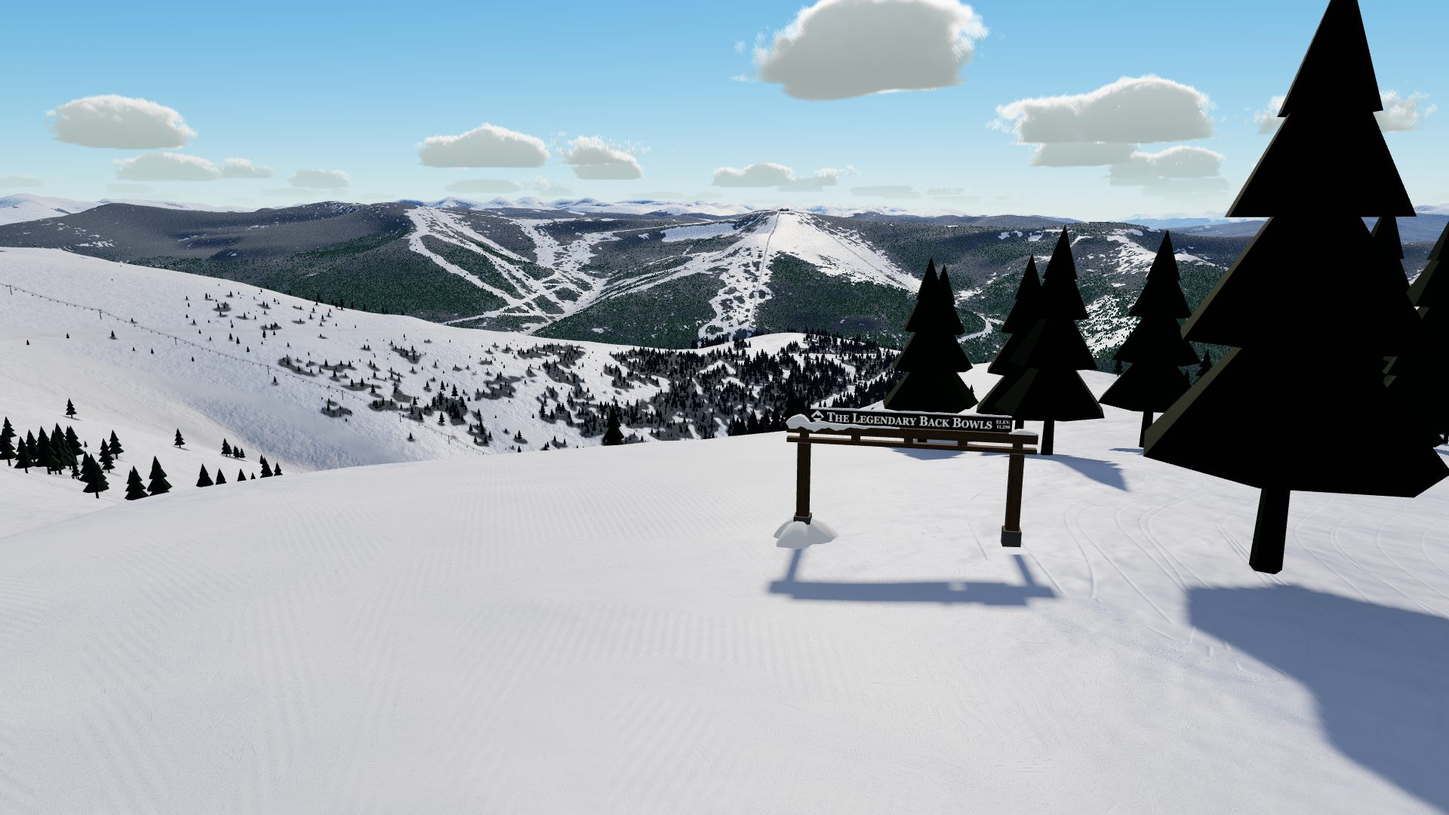
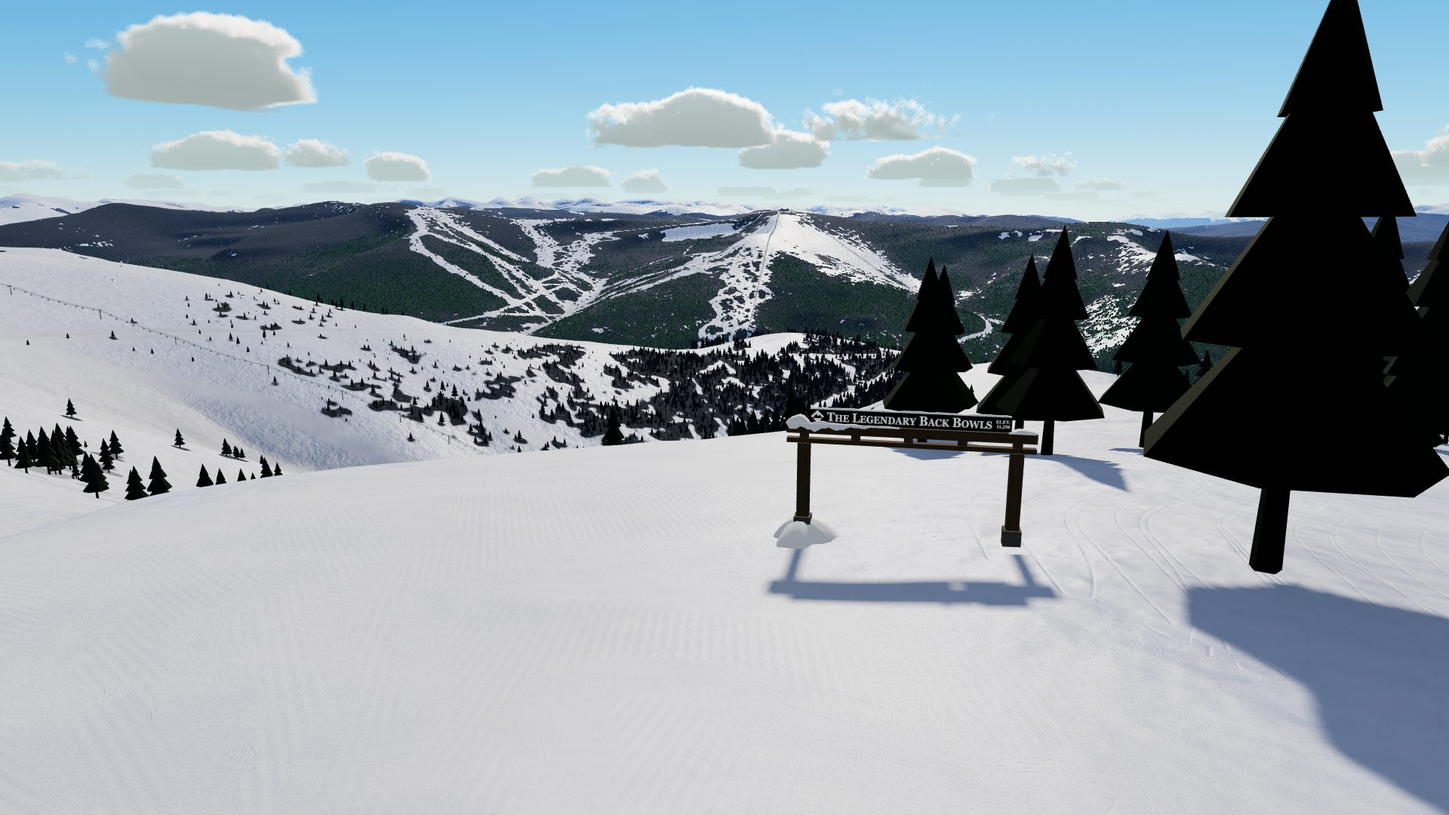
FEAT-154: far forest from high up: gap fraction with the drawn trees taken out, dark sunlit canopy, no near fade outside the pack
Research in docs/research/far-terrain.md section 7: the forest darkening made the grey blobs (A/B per
term with tools/aerial.mjs); the cover share matches Sentinel-2 on sunlit slopes, so the fix is in the
shader. Menu still re-rendered.

diff --git a/game/src/terrain/TerrainMaterial.ts b/game/src/terrain/TerrainMaterial.ts
@@ -48,6 +48,11 @@ import { DEFORM_GLSL, deformUniforms } from '../world/Deform';
  * cuts), not from the per-vertex value; conifer timber is a dark mass with a crown-scale texture that fades
  * to an even tone once a pixel is wider than a crown. Beyond the instanced trees (`uLiftNear`) the coarse
  * chunks raise forested ground by the `lift` attribute (canopy height x cover) so ridges read as treed.
+ *
+ * Forest from high up (FEAT-154, `docs/research/far-terrain.md`): how dark forested ground goes is a gap
+ * fraction of the cover share and the view angle, less what the drawn trees already cover inside their
+ * reach, and sunlit canopy takes only `uCanopySun` of the direct light, so from the air the bowls stay
+ * white between their tree islands and timber reads dark instead of grey.
  */
 
 /** three.js's physical direct-light function with the snow wrap/subsurface and glint terms added. */
@@ -121,6 +126,17 @@ export function createTerrainMaterial(): THREE.MeshStandardMaterial {
     uDebugMoguls: { value: 0.0 },
     /** baked AO strength (1 = as baked; debug A/B with 0) */
     uAO: { value: 1.0 },
+    /** FEAT-154 look switches for A/B stills (`tools/aerial.mjs`): x = 1 drops the forest darkening, y the rock
+     *  and talus, z the snow drift normals; w = 1 paints the forest darkening red */
+    uDebugFar: { value: new THREE.Vector4(0, 0, 0, 0) },
+    /** FEAT-154: the share of the canopy the drawn trees cover inside their reach (the ground adds the rest),
+     *  the share of the sun a sunlit canopy returns (shaded needles and crown sides), and how much of a
+     *  forested pixel is timber rather than snow between the crowns. Tuned from 500 to 900 m up on Vail. */
+    uForestDrawn: { value: 0.7 },
+    uCanopySun: { value: 0.3 },
+    uTimberMix: { value: 0.97 },
+    /** FEAT-154: the rectangle (pack minX, minY, maxX, maxY) holding tree instances; none by default */
+    uTreeRect: { value: EMPTY_RECT.clone() },
     ...rockUniforms(),
     ...deformUniforms,
     ...coverUniforms(),
@@ -179,6 +195,9 @@ export function createTerrainMaterial(): THREE.MeshStandardMaterial {
         uniform float uTime;
         uniform vec3 uSnow, uSnowShade, uGroomed, uShadeTint, uSSS;
         uniform float uWrap, uGlint, uFlat, uAO;
+        uniform vec4 uDebugFar;
+        uniform float uForestDrawn, uCanopySun, uLiftNear, uTimberMix;
+        uniform vec4 uTreeRect;
         #define AO_POW 2.6
         #define AO_DIRECT 0.6
         // FEAT-075: forest darkening from FOREST_NEAR (full by FOREST_FULL, m); canopy cover FOREST_LO..FOREST_HI maps to 0..1
@@ -329,6 +348,7 @@ export function createTerrainMaterial(): THREE.MeshStandardMaterial {
         float bn2 = vnoise(wp * 0.17 + 11.0) * 0.6 + mix(0.5, vnoise(wp * 0.8 + 5.0), fineOct) * 0.4;
         // winter buries most talus: only part of a full-weight field shows
         float screeCov = smoothstep(0.5 - edge, 0.5 + edge, wScreeV * 0.65 + (bn2 - 0.5) * 0.7 - snowShift) * (1.0 - rockCov);
+        rockCov *= 1.0 - uDebugFar.y; screeCov *= 1.0 - uDebugFar.y;
         float wSnow = 1.0 - rockCov - screeCov;
         vec3 base = snow * wSnow + rockAlb * rockCov + screeAlb * screeCov;
         base = mix(base, groomed, wGroom * wSnow);
@@ -386,7 +406,23 @@ export function createTerrainMaterial(): THREE.MeshStandardMaterial {
         float covK = cov.y * smoothstep(COVER_NEAR, COVER_FULL, dist);
         float forestV = mix(vForest, cov.x, covK);
         float forestK = mix(smoothstep(FOREST_LO, FOREST_HI, vForest), smoothstep(0.1, 0.9, cov.x), covK);
-        float fd = max(smoothstep(FOREST_NEAR, FOREST_FULL, dist) * forestK, smoothstep(2500.0, 6000.0, dist) * forestV);
+        // FEAT-154: how much of this ground a viewer sees as canopy (a gap fraction). With a share s of the
+        // ground under crowns, a sight line at cosine mu to the ground misses the crowns with probability
+        // (1 - s)^(1/mu): grazing views (from the snow) see a closed mass, views from above see the openings.
+        // Inside the trees' reach the drawn trees already cover rho = uForestDrawn of the canopy, so the
+        // ground adds only what they miss, 1 - ((1 - s) / (1 - rho s))^(1/mu); before this the ground went
+        // grey under trees that were already drawn, so sparse stands in the bowls read as grey blobs from
+        // the air. Outside the pack's tree instances (uTreeRect) nothing is drawn, so there the ground carries
+        // the forest from the first metre instead of fading in from FOREST_NEAR.
+        vec2 pxyF = vec2(wp.x, -wp.z);
+        vec2 trd = min(pxyF - uTreeRect.xy, uTreeRect.zw - pxyF);
+        float treeHere = smoothstep(0.0, 300.0, min(trd.x, trd.y));
+        float viewMu = clamp(dot(ngW, normalize(cameraPosition - wp)), 0.12, 1.0);
+        float rho = uForestDrawn * treeHere * (1.0 - smoothstep(uLiftNear - 800.0, uLiftNear, dist));
+        float sK = min(forestK, 0.999);
+        float seen = 1.0 - pow((1.0 - sK) / (1.0 - rho * sK), 1.0 / viewMu);
+        float fd = mix(1.0, smoothstep(FOREST_NEAR, FOREST_FULL, dist), treeHere) * seen;
+        fd *= 1.0 - uDebugFar.x;
         // FEAT-075: conifer canopy in sun is dark (shaded needles and crowns), dark green-black in the photos.
         // FEAT-153: crowns (about 6 m) texture it while a pixel is smaller than a crown and fade to an even
         // tone beyond, with a faint stand-scale variation; no 50 m snow blotches at a distance
@@ -396,10 +432,11 @@ export function createTerrainMaterial(): THREE.MeshStandardMaterial {
         float stand = vnoise(wp * 0.007 + 5.1);
         vec3 timber = mix(vec3(0.03, 0.045, 0.035), vec3(0.08, 0.1, 0.075), mix(0.4, crown, crownK) * 0.75 + stand * 0.25);
         timber = mix(timber, snow * 0.8, smoothstep(0.62, 0.9, crown) * crownK * 0.6); // snowy gaps between crowns
-        base = mix(base, timber, fd * 0.9);
+        base = mix(base, timber, fd * uTimberMix);
         gSnowW = wSnow * (1.0 - fd);
         gGlintW *= wSnow * (1.0 - wGroom * 0.6) * (1.0 - fd) * (1.0 - 0.6 * uSpring); // wet spring snow sparkles less
         diffuseColor.rgb = base;
+        if (uDebugFar.w > 0.5) diffuseColor.rgb = mix(vec3(0.9), vec3(0.9, 0.1, 0.1), fd);
         // BUG-062 ?debug=moguls: amplitude as a tint, green where the bumps are in the geometry, red where
         // the shader alone draws them, faint magenta on chunks too coarse for either
         if (uDebugMoguls > 0.5) {
@@ -432,7 +469,7 @@ export function createTerrainMaterial(): THREE.MeshStandardMaterial {
           vec3 t = normalize(cross(wn, vec3(0.0, 0.0, 1.0)));
           vec3 b = cross(wn, t);
           vec3 pn = normalize(t * bump.x + wn * bump.y + b * bump.z);
-          vec3 nn = normalize(mix(wn, pn, 0.8 * wS));
+          vec3 nn = normalize(mix(wn, pn, 0.8 * wS * (1.0 - uDebugFar.z)));
           // corduroy ridges tilt the normal across the fall line (about 1 cm high, 30 cm apart)
           float pT, sm;
           vec4 cdn = corduroy(wpn, vFall, pT, sm);
@@ -482,6 +519,9 @@ export function createTerrainMaterial(): THREE.MeshStandardMaterial {
           reflectedLight.indirectSpecular *= aoT;
           // gullies and couloirs read in depth in sun too, and it stands in for self-shadowing past the shadow maps
           reflectedLight.directDiffuse *= mix(1.0, aoT, AO_DIRECT);
+          // FEAT-154: sunlit canopy is mostly shaded needles and the shadow sides of crowns, so the forest
+          // takes a fraction of the sun the bare slope would (without it sunlit timber read mid grey)
+          reflectedLight.directDiffuse *= mix(1.0, uCanopySun, fd);
         }`)
       .replace('#include <roughnessmap_fragment>', `
         // flat light: no sheen toward a sun hidden behind cloud, so the snow goes fully rough

diff --git a/game/src/terrain/Terrain.ts b/game/src/terrain/Terrain.ts
@@ -101,6 +101,9 @@ export class Terrain {
     if (pack.dir) pack.dir.onTileLoaded = (tx, ty) => this.onTileLoaded(pack.dir!.meta.minX + tx * pack.dir!.size, pack.dir!.meta.minY + ty * pack.dir!.size, pack.dir!.size, 0);
     if (pack.moguls) pack.moguls.onTileLoaded = (tx, ty) => this.onTileLoaded(pack.moguls!.meta.minX + tx * pack.moguls!.size, pack.moguls!.meta.minY + ty * pack.moguls!.size, pack.moguls!.size, 0);
     if (pack.cover) pack.cover.onLevelLoaded = () => this.applyCover();
+    // FEAT-154: where the pack has tree instances (outside it the forest is the terrain's colour alone)
+    const ins = pack.meta.instances;
+    if (ins) (this.material.userData.uniforms as { uTreeRect: { value: THREE.Vector4 } }).uTreeRect.value.set(ins.minX, ins.minY, ins.minX + ins.cellsX * ins.cellSize, ins.minY + ins.cellsY * ins.cellSize);
   }
 
   /**

diff --git a/docs/developer-guide.md b/docs/developer-guide.md
@@ -7,7 +7,7 @@ pipeline script, URL parameters and the milestone history. Process docs: [HANDOF
 
 ## Features in detail
 
-- Terrain: quadtree LOD over the 262 km far ring, 1 m near the rider, snow / rock / scree / groomed material; forested ground darkens from the tree impostor ring outward so the far forest reads dark. Distant forest (FEAT-153, `pack/CoverSet.ts`): past about 300 m the shader takes the forest share per pixel from the pack's cover levels (`cover/*.png`, a mipmapped texture per level, up to 3), so the real forest edges and the ski trails cut through it show at any distance; chunks coarser than 8 m take forest, rock and canopy height from the same levels per vertex instead of the procedural treeline (`proceduralForest`, now only where no level reaches or before they load). From the impostors' reach (`uLiftNear`, Vegetation's FAR_RADIUS: 4.5 km at full tree density, nearer on lower density settings) to 2 km past it, chunks coarser than 8 m rise by canopy height x cover x 0.7 (the `lift` attribute, applied in the vertex shader) so forested ridges read as treed; the far timber has a crown-scale texture that fades to an even tone once a pixel is wider than a crown.
+- Terrain: quadtree LOD over the 262 km far ring, 1 m near the rider, snow / rock / scree / groomed material; forested ground darkens from the tree impostor ring outward so the far forest reads dark. Distant forest (FEAT-153, `pack/CoverSet.ts`): past about 300 m the shader takes the forest share per pixel from the pack's cover levels (`cover/*.png`, a mipmapped texture per level, up to 3), so the real forest edges and the ski trails cut through it show at any distance; chunks coarser than 8 m take forest, rock and canopy height from the same levels per vertex instead of the procedural treeline (`proceduralForest`, now only where no level reaches or before they load). From the impostors' reach (`uLiftNear`, Vegetation's FAR_RADIUS: 4.5 km at full tree density, nearer on lower density settings) to 2 km past it, chunks coarser than 8 m rise by canopy height x cover x 0.7 (the `lift` attribute, applied in the vertex shader) so forested ridges read as treed; the far timber has a crown-scale texture that fades to an even tone once a pixel is wider than a crown. Forest from high up (FEAT-154, `docs/research/far-terrain.md` section 7): how dark forested ground goes is a gap fraction, `1 - ((1 - s) / (1 - rho s))^(1 / mu)` of the cover share `s` and the cosine `mu` between the ground normal and the view, so grazing views from the snow see a closed mass and views from the air see the openings; inside the trees' reach `rho` (`uForestDrawn`, 0.7) is the part of the canopy the drawn trees already cover, and outside the pack's tree instances (`uTreeRect`, set by `Terrain` from `meta.instances`) the ground carries the forest from the first metre. Sunlit canopy takes `uCanopySun` (0.3) of the direct light and a forested pixel is `uTimberMix` (0.97) timber. `uDebugFar` switches terms off for A/B stills (x forest, y rock and talus, z snow drift normals; w paints the forest darkening red), for example `SHOT_EVAL` or a `tools/aerial.mjs` variant setting `__sim.terrain.material.userData.uniforms.uDebugFar.value.set(1, 0, 0, 0)`.
 - Riding: carving on a real edge angle (up to 72 deg on firm snow, 45 in powder) with the turn radius from the board's sidecut, washing into a skid past the grip; edge to edge takes about 0.3 s at speed; the rider leans into the hill up to 60 deg with deep toeside and heelside carve poses. Hard carve (FEAT-148, the squat key held while steering): `Rider.hardCarve` eases in, the edge cap goes to `HARD_PSI` (80 deg) and the edge rolls `HARD_ROLL` times faster (slowing with the square of the speed past `HARD_ROLL_V`), the lean may reach `HARD_PHI` and the snow holds up to `HARD_G` (2.6 g) times its grip; the press asks for the turn of the target edge, driven in over `HARD_DRIVE_T` once the edge is on the steer's side, while the edge holds only what its real angle balances, so a lagging edge (pressed from flat at speed, on ice) skids (`carveShort`, folded into `skid` for the drag, spray and sound) and short of more than `WASH_SHARE` (35%) of the turn asked, at speed, fills `washout` (a share, so softer snow that asks less washes out alike; the snow's grip scales what the edge holds; only deep powder, its share times depth over `HARD_DEEP` 30 cm, lowers the hard carve's edge cap and stops the washout); full, the rider crashes to the inside of the turn (`crashSide`, the ragdoll topples that way) and `onWashout` toasts it. `HARD_DRAG` adds a drag from the lateral acceleration. The view lays the body over to `LEAN_HARD` (73 deg) in the deep carve stance (BUG-066: the squat pose fades out while `hardCarve` is in, and `RiderView.deckDeficit` lifts the hips until the shins, knees and thighs clear the deck in the board's own frame, `DECK_CLEAR`) and drags the inside hand on the snow; the spray, the track depth and the carve hiss rise with it; `?debug` shows hard, short and wash. Also tuck, brake (the board swings across into a hockey stop, scrapes a wide track and holds on its edge once stopped; steering while braking digs the edge in for a harder stop or lets it off into a skidded turn or a side-slip), the fall line (a flat board follows its slide down the hill and side-slips when let go across it unless the uphill edge is held; on Realistic the edge catches when the board slides sideways onto its leading edge, or slides flat over rough snow; Settings > Gameplay > Fall line: Realistic (the default), Assisted, Off; the Feel presets set it, Arcade to Off), charged jumps with ollie and nollie off the board's spring (hold W / S with Space), nose and tail presses (Q / Z) balanced on a meter (FEAT-140: `Rider.pressStep`, the needle `pressBalance` drifts with the hold time, speed and bumps, runs away off centre, and W / S or the stick shift the weight back (over 0.15 s, and always strong enough to win, so there is no time limit); off the loaded end a slam that topples the ragdoll over that end (`Rider.crashFall`) or a stall, off the other end the board drops flat; a press key held through a trick lands into the press (`pressFrom`); `onPress` reports the time and distance, `ui/PressMeter.ts` draws the meter over the head, tunables `PB_*` and `PRESS_RANGE` (how far the balance runs before it is lost; the body leans in proportion) at the top of `Rider.ts`, Settings > Gameplay > Press balance Easy / Normal / Hard / Off, also set by the Feel presets), squat (Left Ctrl), skating on the flat (X), grabs, air spins, front flips and backflips (Up / Down in the air, trick names toast on landing: flips, and spins as "Frontside 180" / "Backside 360"), landings; collisions with trees, rocks and building walls. The snowboard bends when loaded. Snowboard or skis, outfit colours, articulated rider with blended poses. The body leads and the board follows (BUG-056, visual only): the head and shoulders pose about 0.2 s ahead of the physics (the steer's target edge and the heading the turn rate is reaching), the hips and the body's inclination about 0.12 s ahead, each lead signal followed through a critically damped 0.09 s body response (`BODY_RESPONSE`) so the body moves at a human speed instead of snapping to its prediction, and the board as drawn trails the physics yaw and edge by about 0.08 s (critically damped, never rolled past the physics edge, snapped on landings and crashes), so an edge change reads look, shoulders, hips, knees, board. Tunables `LEAD_UPPER`, `LEAD_HIPS`, `BOARD_LAG` at the top of `RiderView.ts`, live on `riderView.leadUpper` / `leadHips` / `boardLag` and as sliders under `?debug`.
 - Riding switch and stance (FEAT-139): `rider.heading` is always the steering axis along the direction of travel, and every physics value (edge, lateral g, lean, flip, brake side) is in its frame, so + edge is the heading's right-hand edge. Going backwards along it faster than `FAKIE_SPEED` (2.5 m/s), or landing with the board backwards, `turnRound()` adds PI to the heading and board yaw, negates the edge, lean and lateral g, and toggles `rider.switch`. `rider.goofy` comes from Settings > Gameplay > Stance. `rider.toeSign` is -1 when switch and goofy differ: `RiderView` then draws the board and body at the yaw + PI and negates every sideways and fore-aft value into the rig's frame (`fl`), so turning round never moves the rider on screen and the toe and heel poses stay the rider's own. A goofy rig (`buildRig(..., goofy)`) has the deck's nose at +Z and the +15 / -6 bindings swapped ends, so drawn turned round it is a true goofy stance. Seated and on foot are always drawn along the heading; unstrapping and strapping in turn the heading round when needed so nothing pops. Switch is 4 % less grip (`SWITCH_GRIP`), shows SWITCH on the HUD, and prefixes trick names ("Switch backside 180"). Replays and ghosts carry flag bits 8 (switch) and 16 (goofy). Skis never ride switch.
 - Snow conditions (FEAT-053, `sim/SnowConditions.ts`): `snowAt()` turns the surface mask, the ground normal (slope and aspect), the elevation, the canopy and the day (`rider.snowWorld`: hour, storm, new snow cover, the Snow conditions setting, the pack's elevation range, set by `main.ts` each frame) into weights for groomed / powder / chop / ice / slush / rock that sum to 1, plus the physics they blend (`grip`, `drag0`, `drag1`, `turn`, `jolt`, `skidScrub`, `depth`). Powder keeps in the shade of north aspects, high up, under the trees and after a storm (a storm or a powder day makes the groomers ride soft too); open off-piste is tracked out into chop as the day goes on; wind scours high exposed ground to ice and spring mornings refreeze the groomers; the afternoon sun makes slush low down on the sunny faces (most of all in spring). In `Rider.ts` the state scales the grip (ice about half), the sidecut's arc and the lean's turn force (powder 0.7: wider, slower turns), the snow drag (powder speed-scaled until the board planes at `PLANE_SPEED`, the nose sinking and digging in below `SINK_SPEED`, slush heavy), how much a skid scrubs speed (ice little), and chop adds seeded random jolts to the heading and a sideways kick (`CHOP_*`, `rider.chop` for the camera). `bootSink` reads the depth on foot. The spray (`RiderView.updateSpray`: a plume off the edge in powder, almost none on ice), the camera rumble, the track depth and the sound (`Audio.update`: ice on the hardpack layer, slush a wet hush, chop a crackle; footsteps too) follow the weights. The HUD names the dominant kind while riding and shows the kind and the boot sink on foot; `?debug` adds the weights.
@@ -58,6 +58,7 @@ pipeline script, URL parameters and the milestone history. Process docs: [HANDOF
 - `outruncheck.mjs [pack] [outDir] [--gpu | --headed]` Outrun flow: chase, look back, the eat sequence.
 - `menucheck.mjs [pack] [--gpu | --headed] [--shots]` menu navigation (FEAT-128): walks the main menu, the settings screen and pause with the keyboard and a fake gamepad (`window.__pad`); checks focus (first row on open, back on the opener on close), the detail panel, category switching (Q / E, R1), left / right and Enter on toggles, sliders and pickers saving to localStorage, the Graphics and Feel presets and Custom, reset arming then resetting, search across categories (letters stay in the box, never reach the game), UI scale and Reduce motion, hints from the key tables and the controller's glyphs, Esc cancelling a key or controller-button rebind (menu and pause), the controller skipping keyboard key slots, action rows staying in the screen, the main menu (it shows before the session is ready, the title, the live session behind it with riding keys and Esc doing nothing, B for Snowboard / Skis, the course list and Esc back onto its card, the Outrun card, Change resort, a course from the card row and RIDE putting the gates on, Quit back to the live menu with the course ended, a ghost take riding behind it, RIDE again in the same session), the pause menu (the place and stats, quick toggles applied at once, Mode's screen and E across modes, a course from Mode turning the gates on for the session and Free ride off again, Quit armed by one press and done by two), settings over the game (a live fps readout, a change applied to the running game, hold V or Y to peek), Esc resuming once, A on Resume not jumping, a stick held into pause not moving the focus, and closing pause closing settings and cancelling a listening slot. `--shots` saves the main menu, settings over the menu and the game, settings at 390 x 844 and 844 x 390, the main menu and pause (also at 390 x 844, the main menu at 844 x 390 too) to `game/shots/menus/`. About 40 s on the GPU.
 - `views.mjs <pack> <outDir> <views.json> [--headed | --gpu]` stills from fixed free-camera spots for look checks (`views-*.json` in the same folder).
+- `aerial.mjs <pack> <outDir> <poses.json> [variants.json] [--gpu | --headed]` (FEAT-154) stills from the eye camera (the menu's backdrop camera) at poses like the `AttractShots` ones (`x`, `y`, heading `h`, `pitch`, `fov`, `eye` metres above the snow, up to hundreds of metres for aerials), once per variant (`{ label, eval, undo }`, JavaScript run in the page before and after the variant's stills, for A/B of shader terms); steps until the tiles settle and prints the GPU frame time (30 frames each finished with a `readPixels`), draw calls and triangles per still. `SHOT_DIST=<dir>` (any tool that uses `tools/paths.mjs`) serves another build, for example `main` built with `npx vite build --outDir <dir>`, for a before / after with the same tool.
 - `shoot_features.mjs` map, buildings, rocks and lift feature check.
 - `probe.mjs` step timing probe for hangs.
 - `brakecheck.mjs` brake physics on exact planes, no browser: hockey-stop time and distance against the snow-cutting targets, board swing, release, standing across the hill, ski snowplough, and the steer-modulated brake (FEAT-133: a harder stop into the edge, a skidded turn and a side-slip away from it, release onto the new line). Exits 1 on a failed check.

diff --git a/docs/research/far-terrain.md b/docs/research/far-terrain.md
@@ -92,7 +92,83 @@ Expected result: from the Back Bowls gateway, Blue Sky Basin shows its forest an
 - `perf-check`: frame time and draw calls before and after each phase while tucking down a long run (the stream-heavy case).
 - Watch for shimmering trail edges at distance (aliasing): the box-filtered levels and the slight edge sharpening should keep them stable; if not, sharpen less.
 
+## 7. From high up (FEAT-154, #347)
+
+Researched 2026-11-09 after FEAT-153 and DATA-019 landed, for the FEAT-128 menu backdrop: Vail from 500 to 900 m up showed soft grey blobs over the far terrain, open bowls included, and grey forest on sunlit slopes. All stills here are from `game/tools/aerial.mjs` on Drew's GPU (RTX 2070 SUPER), clear weather, the default sun, at three poses:
+
+| Pose | Eye camera |
+|---|---|
+| Back Bowls gateway | x -727, y 524, heading 170, pitch -22, 700 m up |
+| Front side from the northeast (across I-70) | x 2600, y 7200, heading 220, pitch -14, 600 m up |
+| Blue Sky looking north (over the Back Bowls to the Gore Range) | x 1100, y -3600, heading 355, pitch -12, 800 m up |
+
+Before and after: `docs/renders/2026-11-09-feat154-*.jpg`.
+
+### 7.1 Which term makes the blobs
+Each term switched off in turn (`uDebugFar` in `TerrainMaterial.ts`, plus `uAO` and the shadows setting), same poses:
+
+| Term off | Effect from the air |
+|---|---|
+| Forest darkening (`fd`) | **The blobs go.** The bowls turn white with the drawn tree clumps on them; but the dense forest past the trees (Blue Sky, the front side, the ranges) goes white too, so the term is needed, just not as it was. |
+| Rock and talus | Only the hard-edged dark patches on steep faces (mostly outside the pack) go. Not the blobs. |
+| Baked AO | Barely visible from the air (it fades out by 5 km). |
+| Snow drift normals | No visible change at these distances. |
+| Shadows | Only the near trees' own shadows. |
+
+A red tint of the darkening showed what was wrong with it:
+1. **Sunlit timber read mid grey, not dark.** The darkened ground takes the full sun like the snow beside it. With an albedo of about 0.15 (timber 0.05 plus the 10% of snow mixed in, which outweighed the timber itself), a sunlit slope tone-maps to grey. Real sunlit conifer canopy is mostly shaded needles and the shadow sides of crowns, so it stays dark. The geometric-optical canopy models (Li and Strahler) describe exactly this mutual shadowing.
+2. **The ground went dark under trees that were already drawn.** Inside the tree reach (4.5 km), the ground darkened by the full cover share and the instanced trees and impostors stood on top. Sparse stands in the bowls therefore read as grey halos around the trees.
+3. **Outside the pack there are no trees**, but the darkening still faded in from 350 m to 1 km as if trees stood in front. From the air the near slopes past the pack (front side from the NE) were a half-grey wash.
+4. **No view angle.** FEAT-075 lifted the darkening so that from the snow, at grazing angles, the forest reads as a mass. From above, the real openings between crowns show, and the same lift made every partly forested cell grey.
+
+### 7.2 How the real view looks
+The reference is a cloud-free Sentinel-2 L2A scene from 1 March 2025 (`S2C_MSIL2A_20250301T175311_R141_T13SCD`, 0.02% cloud, sun 40 degrees up), cropped to the pack at 10 m through the Planetary Computer data API (`/api/data/v1/item/bbox/...`; the `crop` route used for NAIP now returns 404). It is in `docs/renders/2026-11-09-feat154-sentinel2-vs-cover.jpg` next to the pack's cover share.
+- From above, the Back Bowls are white with dark tree islands, the lower bowls toward Sun Down's base are forest, and Blue Sky and the front side are dark timber cut by white trails. The cover level shows the same pattern.
+- **Is the cover's forest share right?** On shaded slopes the Sentinel-2 brightness can't separate shaded snow from canopy, so the comparison only uses sunlit slopes (cos of the sun incidence from the 10 m DEM between 0.55 and 0.95). There it unmixes as `(snow - pixel) / (snow - canopy)`, with snow and canopy taken from cover-0 and cover-1 pixels at the same incidence. Region by region the cover matches what the satellite sees: Back Bowls 0.18 against 0.21 (and 0.05 against 0.06 on the most sunlit faces), Blue Sky 0.47 against 0.50 (0.55 against 0.59), the front side 0.35 against 0.41. Cells the cover calls open still unmix at about 0.26 (towns, roads, scattered small trees and noise), so the method has a floor. **Conclusion: the data is not the problem. The blobs came from how the shader drew it.**
+- A crude dark-pixel share of the true-colour image (luminance under 0.45) reads lower in the bowls (0.12 against 0.21). That's the saturated true-colour stretch hiding sparse trees on bright snow, not a real difference.
+
+### 7.3 How other large-terrain renderers draw far forest (cheaply)
+- **Land-class forest with autogen trees near and a forest colour far:** flight sims (X-Plane, Microsoft Flight Simulator) place generated trees from forest land-class polygons out to a set distance and leave the forest to the ground texture past it. This is what we do: instances to 4.5 km, then the cover levels.
+- **A baked far albedo or forest texture per tile** (from imagery or canopy data): cheap and exact in colour, but the lighting is baked into it (section 4.3). We get the same spatial accuracy from the cover share lit in the shader.
+- **Impostor or billboard clusters per tile** (one card per stand rather than per tree): good mid-distance texture at a few draw calls per tile. It's the natural next step if the 1.5 to 8 km band needs more 3D texture than the ground shading gives (section 4.5).
+- **A canopy-height bump in the terrain:** we already lift forested ground past the trees (FEAT-153), which gives treed silhouettes and self-shading.
+- **Canopy optics instead of a flat tint:** the probability that a sight line passes between crowns falls with the path length through the canopy layer. That is the canopy gap fraction, `P(theta) = exp(-k LAI / cos theta)` in Nilson's form. With a share `s` of the ground under crowns, the Poisson version is `(1 - s)^(1/mu)`, where `mu` is the cosine of the view to the ground normal. It makes a stand denser at grazing angles and true to its share from above, at the cost of one `pow`.
+- **Horizon-based shading** (a per-texel horizon angle for sun occlusion past the shadow maps) would put the far valleys into shadow at low sun. It is not needed for these views at 11 am. A follow-up if dawn and dusk backdrops matter.
+
+### 7.4 What was built
+All in `TerrainMaterial.ts`, no new data:
+- **Gap fraction with the drawn trees taken out:** `seen = 1 - ((1 - s) / (1 - rho s))^(1/mu)`. Here `s` is the S-curved cover share and `mu` is clamped to 0.12..1. `rho` (`uForestDrawn`, 0.7) is the part of the canopy the drawn trees cover, fading to 0 at the tree reach (`uLiftNear`) and outside the pack's tree instances (`uTreeRect`). From the snow `mu` is small and the forest stays a dark mass, as FEAT-075 wanted; from the air sparse stands open up. Closed stands (`s` near 1) stay dark whatever `rho` is, which keeps the BUG-023 compensation where the drawn trees are too sparse.
+- **No near fade outside the pack:** past the tree instances the ground carries the forest from the first metre.
+- **Canopy sunlight:** forested pixels take `uCanopySun` (0.3) of the direct diffuse light, and a forested pixel is `uTimberMix` (0.97) timber, up from 0.9.
+- The old second term (`smoothstep(2500, 6000, dist) * forestV`, the raw unlifted share) is gone; the gap fraction covers it.
+
+### 7.5 What the pack should bake
+Nothing new for this. The cover levels already carry the right share (7.2) and everything above is lighting. Candidates for later:
+- A winter "canopy seen from above" level from Sentinel-2, as a check or a correction, needs terrain-illumination correction (7.2 used only sunlit slopes). It would mainly help outside the pack, where WorldCover's tree class is a thresholded share.
+- Generated tree instances outside the pack from the mid cover level (one cell set per 1 km, like FEAT-074's per-cell stands). From the NE pose the near slopes past the pack are now dark forest with snow between the crowns, but they are flat colour with no trees.
+
+### 7.6 Frame cost
+One `pow`, a dot product and a few multiplies per terrain pixel; no new textures, draw calls or vertices. Main against this branch with `aerial.mjs` (`SHOT_DIST` serving a main build), two alternating rounds, 1600 x 900, 30 GPU-finished frames per pose:
+
+| Pose | main (ms) | FEAT-154 (ms) |
+|---|---|---|
+| Born Free start, eye height | 17.8 / 16.9 | 16.8 / 15.6 |
+| Front side mid-run, eye height | 18.9 / 18.7 | 18.6 / 17.0 |
+| Back Bowls gateway, eye height | 19.9 / 19.0 | 18.9 / 19.3 |
+| Blue Sky run, eye height | 18.4 / 19.9 | 19.6 / 19.8 |
+| Gateway, 700 m up | 23.3 / 24.0 | 21.9 / 22.9 |
+| Blue Sky looking north, 800 m up | 23.7 / 24.3 | 24.7 / 24.2 |
+
+All within run-to-run noise, with identical draw calls and triangles. The Low preset runs the same shader; its shorter tree reach only moves where `rho` fades out.
+
+### 7.7 Left over
+- Dense stands where the drawn trees are sparse (BUG-023, FEAT-074) show from the air as dark ground with a few trees standing in it, about 1 to 3 km out from the gateway pose. Raising `rho` doesn't change them (they are closed canopy in the cover); more trees will.
+- Sunlit-slope check only: a full Sentinel-2 comparison needs illumination correction.
+
 ## Sources
+- [Nilson 1971, A theoretical analysis of the frequency of gaps in plant stands (Agricultural Meteorology 8)](https://doi.org/10.1016/0002-1571(71)90092-6)
+- [Li and Strahler 1992, Geometric-optical bidirectional reflectance modeling of the discrete crown vegetation canopy: effect of crown shape and mutual shadowing (IEEE TGRS 30(2), 276-292)](https://doi.org/10.1109/36.134078)
+- [Microsoft Planetary Computer, Sentinel-2 Level-2A](https://planetarycomputer.microsoft.com/dataset/sentinel-2-l2a)
 - [ESA WorldCover (terrabyte docs: classes, 10 m, COG)](https://docs.terrabyte.lrz.de/datasets/esaworldcover/)
 - [ESA WorldCover 2021](https://worldcover2021.esa.int)
 - [ETH Global Sentinel-2 10 m Canopy Height (2020)](https://samapriya.github.io/awesome-gee-community-datasets/projects/canopy)

diff --git a/docs/README.md b/docs/README.md
@@ -17,7 +17,7 @@ Start here. Everything a session needs to know that is not code lives in this fo
 | [research/shredfinder-ghost-and-gps.md](research/shredfinder-ghost-and-gps.md) | Ghost rider epic: what the ShredFinder GoPro telemetry contains (HERO11, 10 Hz GPS, CORI), gaps to fix, the 3-step export/build/replay plan, and what the data can and cannot do for the maps. |
 | [research/outrun-mode.md](research/outrun-mode.md) | Before building FEAT-097 to FEAT-101 (Outrun, the SkiFree-style chase): the card's design checked against the code, key and jukebox corrections, breadcrumb AI, sound and music stages, the eat sequence on the current rig, the build order. |
 | [research/deformable-snow-and-spray.md](research/deformable-snow-and-spray.md) | Before building FEAT-044 (#76, deformable snow and powder spray): what the tracks, bootprints, terrain and spray do today, the Batman and Tomb Raider heightfield techniques, the design (top-down raster of the existing ribbons and prints into a rider-local texture, a 25 cm near split of the terrain, GPU spray), build order and risks. |
-| [research/far-terrain.md](research/far-terrain.md) | Before far terrain, background forest or horizon work (FEAT-153, DATA-019): why distant forest looks random today, which pixel sizes matter at distance, land cover and canopy data sources, mask levels, a far class texture, the canopy silhouette lift, geomorphing, the phased plan and budgets. |
+| [research/far-terrain.md](research/far-terrain.md) | Before far terrain, background forest or horizon work (FEAT-153, DATA-019): why distant forest looks random today, which pixel sizes matter at distance, land cover and canopy data sources, mask levels, a far class texture, the canopy silhouette lift, geomorphing, the phased plan and budgets; section 7 (FEAT-154): the view from high up, which shader term made the grey blobs, a Sentinel-2 check of the forest share, the canopy gap fraction and its frame cost. |
 | [developer-guide.md](developer-guide.md) | Full feature list, code layout, test tools, every pipeline script, URL parameters, milestone status (the detail behind the top-level README). |
 | [HANDOFF.md](HANDOFF.md) | Current state and next steps when a session picks the project up. |
 | [research/compare-findings-roadmap.md](research/compare-findings-roadmap.md) | Before tree, rock, building or snow realism work: what the DATA-008 photo pairs found, pack measurements per spot, root causes with code locations, the phased plan (FEAT-072, #116) and the compare metrics harness. |
